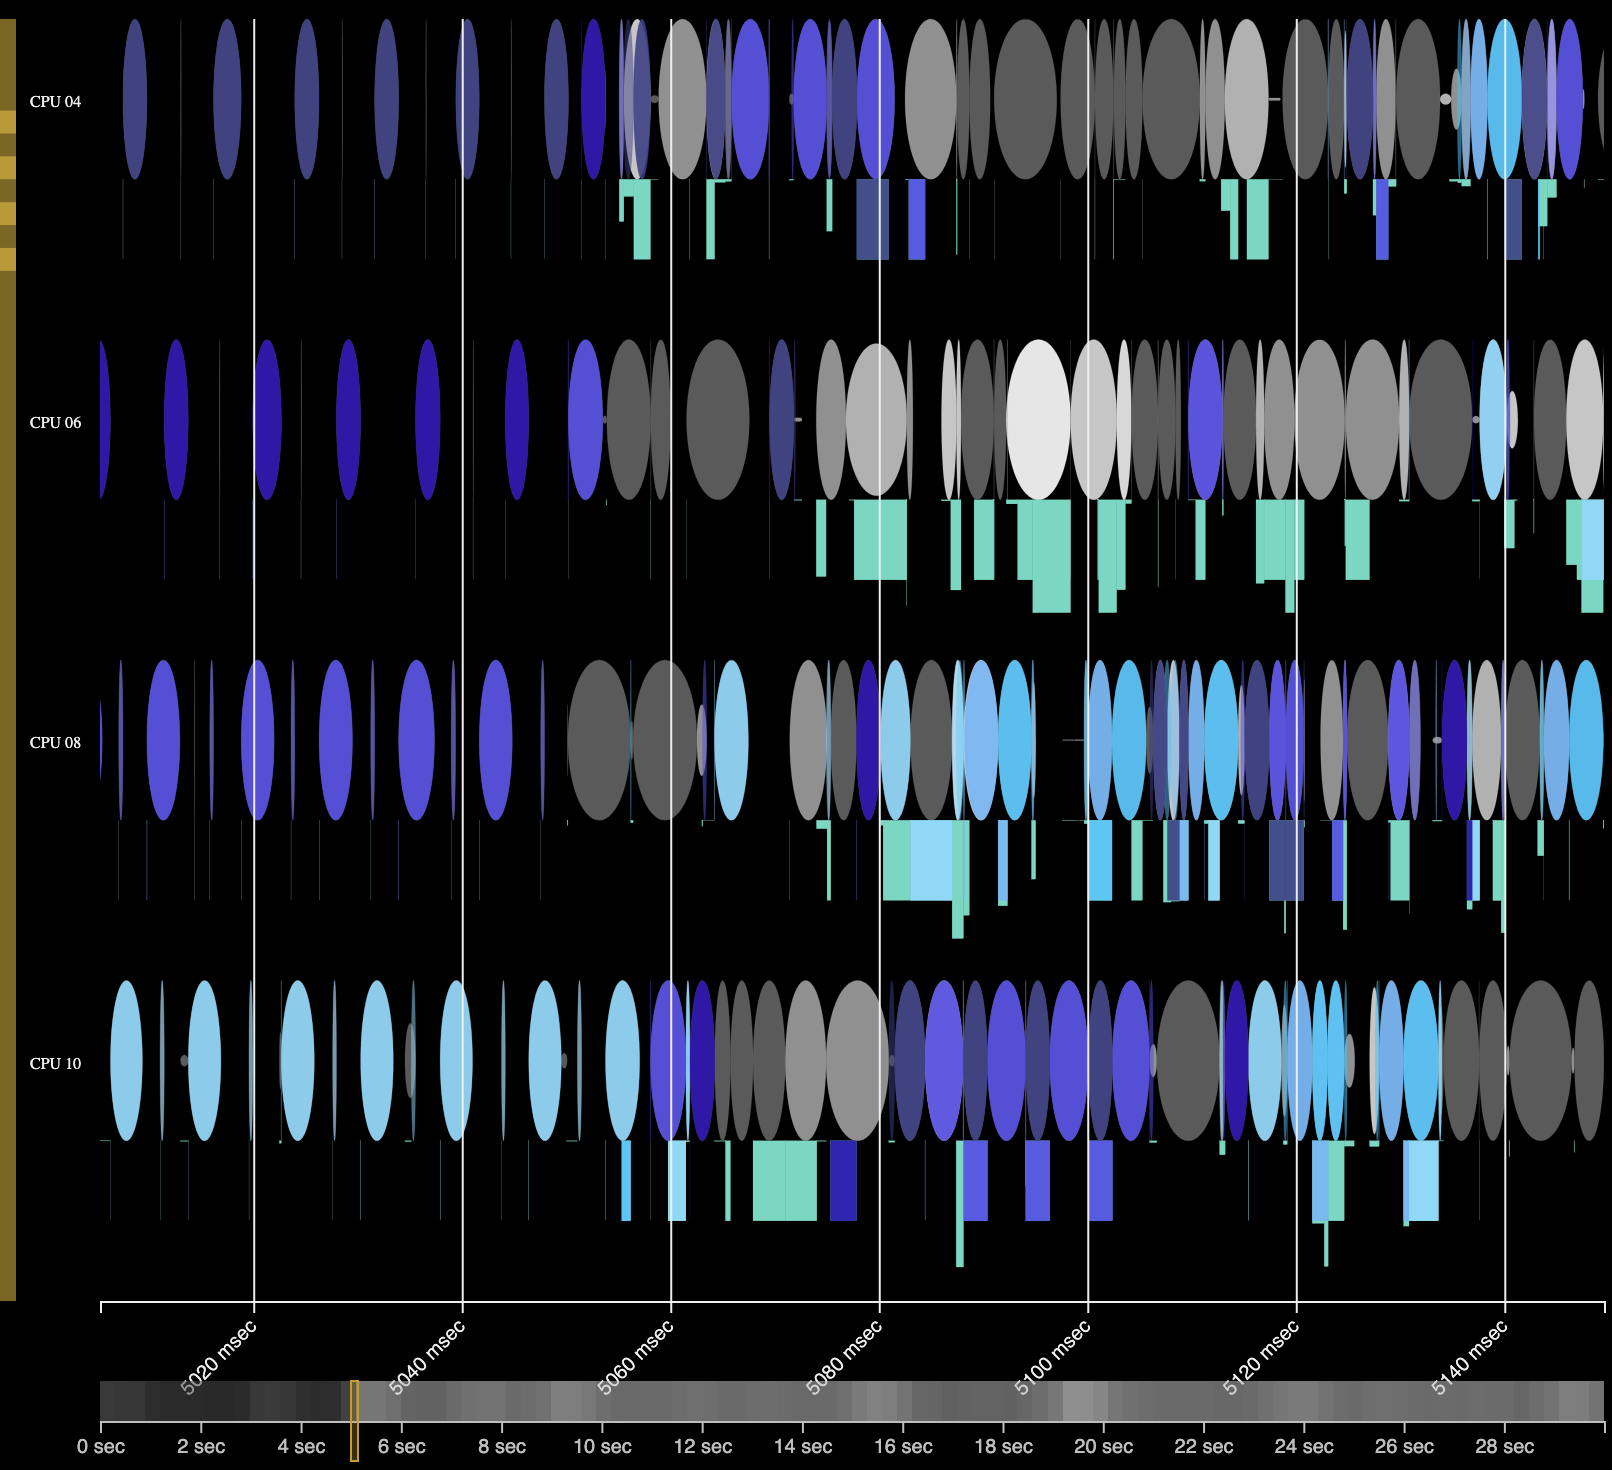
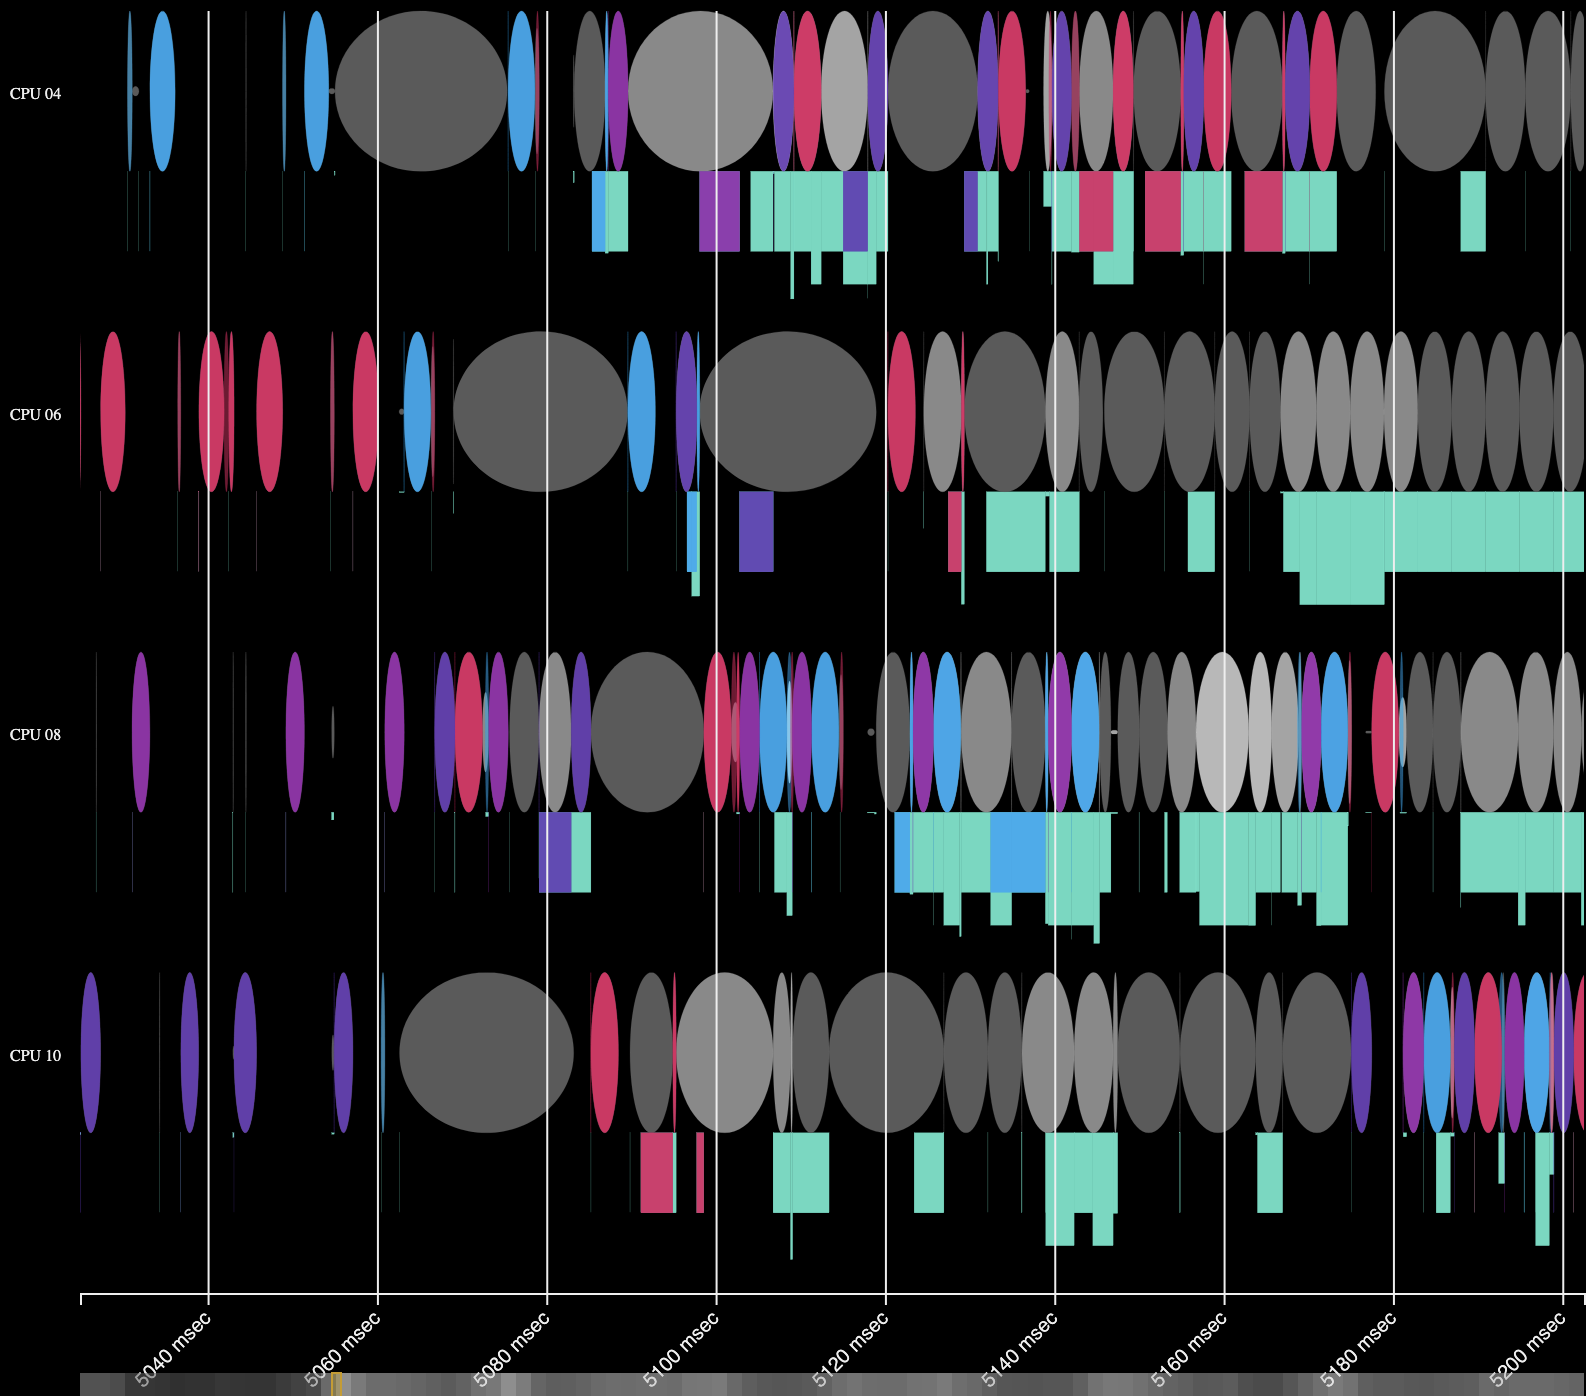
new graphs, changed small amounts of writing, updated the numers

diff --git a/smth26/problem.tex b/smth26/problem.tex
@@ -18,7 +18,7 @@ the same four cores.
 
 A key tenet of the QOS classes is that the lowest class, BestEffort, be
 invisible to higher classes. BestEffort tasks need to be preempted as soon as a
-higher class pod has anything to run. If this is correclty enforced, no amount
+higher class pod has anything to run. If this is correctly enforced, no amount
 of load on a BestEffort pod should be able to affect the performance of a
 Guaranteed or Burstable pod.
 
@@ -33,15 +33,14 @@ Guaranteed or Burstable pod.
 However, we find that running a BestEffort job does in fact impact the
 performance of higher class pods. \autoref{fig:kubernetes-unedited} shows the
 result of running a best effort workload, using the BestEffort class, alongside
-the web server, running as a Burstable pod. The top graph of plots the
-end-to-end latency of an endpoint that gets a users feed and applies a
-moderation; the bottom graph shows the throughput of a best effort image resize
-job. After the image resize job starts running, the mean response latency of the
-web application jumps from $\sim$7ms to $\sim$15ms, and the 99th percentile
-latency from $\sim$10ms to $\sim$25ms. The graph looks the same if the web
-server is running as a Guaranteed pod. This clearly violates the goal that
-Guaranteed and Burstable pods get access to reserved CPUs when they could use
-them.
+the web server, running as a Burstable pod. The top graph plots the end-to-end
+latency of an endpoint that gets a users feed and applies a moderation; the
+bottom graph shows the throughput of a best effort image resize job. After the
+image resize job starts running, the mean response latency of the web
+application jumps from $\sim$7ms to $\sim$15ms, and the 99th percentile latency
+from $\sim$10ms to $\sim$25ms. The graph looks the same if the web server is
+running as a Guaranteed pod. This clearly violates the goal that Guaranteed and
+Burstable pods get access to reserved CPUs when they could use them.
 
 
 \begin{figure}[t]
@@ -116,26 +115,28 @@ same web server, and server2 is a simple CPU-bound server.
 \subsubsection{Burstable pods affect Guaranteed pods}
 
 We run the web server in the Guaranteed class, and server2 in the Burstable
-class. \autoref{fig:kubernetes-lc-burst} shows the impact on the web server's
-latency of starting load on server2: average latency jumps up by $\sim$2ms, and
-99th pctile by > 6ms.
+class. Surprisingly, we see a significant latency impact under high load.
+\autoref{fig:kubernetes-lc-burst} shows the web server's latency and the overall
+utilization, before and after starting load on server2. We see that average
+latency jumps from $\sim$6ms to $\sim$9.5, and the 99th pctile from 7ms to 22.
 
 \begin{figure}[t]
     \centering
     \includegraphics[width=\columnwidth]{graphs/schedviz-lc-burst-problem.png}
     \caption{When server1 is running alone, it has all the cores to itself, but
     after server2 starts it gets only half of whatever core it runs on, even if
-    that is a fraction of the cores available and server2 is running uncontended
-    on the other cores}\label{fig:schedviz-lc-burst-problem}
+    it isn't using all the cores available and server2 is running uncontended on
+    the other cores}\label{fig:schedviz-lc-burst-problem}
 \end{figure}
 
 \autoref{fig:schedviz-lc-burst-problem} shows an outtake from the trace of the
-experiment. On the left hand side of the trace, server1 can run uncontended on
+experiment. Threads of server1 are colored in, threads are serer2 are shown in
+shades of grey. On the very left of the trace, server1 can run uncontended on
 any core when requests come in. Then server2 starts, and has a high load and
 thus immediately starts running on all four cores, because it is Burstable. When
 a request from server1 comes in, the thread processing that request has to share
-the core equally with threads from server2, even while server2 gets other cores
-all to itself.
+the core equally with threads from server2, or other server1 threads, while
+while server2 gets other cores all to itself.
 
 This means that Burstable pods have a performance impact on Guaranteed ones
 because both share cores where they both have threads as equals, irrespective of
@@ -165,7 +166,7 @@ on many more cores than the other.
 However, we find that even a Guaranteed pod can impact anothers performance. We
 run the same two servers, both now in the Guaranteed class.
 \autoref{fig:kubernetes-lc-guar} shows the result: average latency jumps up by
-$\sim$3ms, and 99th pctile by > 10ms.
+$\sim$4ms, and 99th pctile by $\sim$ 20ms.
 
 The reason this problem happens is related to how Kubernetes uses \cgroups{} to
 enforce limits on pods. Kubernetes uses cpu.max to do so, but the interface to
@@ -192,9 +193,10 @@ four cores, Kubernetes relies on weights to separate the two, which can lead to
 significant delays for other services, as we saw.
 \autoref{fig:schedviz-lc-guar-problem} shows this happening in a trace from the
 experiment from \autoref{fig:kubernetes-lc-guar}. We can see the phases of
-server2 threads in grey, which run for a while on all four cores, disrupting the
-blue server1 threads, before being throttled, during which time server1 threads
-can run uninterrupted and otherwise the cores lie idle.
+server2 threads, which are shown in grey: they run for a while on all four
+cores, disrupting the colorful server1 threads, before being throttled, during
+which time server1 threads can run uninterrupted and otherwise the cores lie
+idle.
 
 \hmng{I should add a note somewhere that lots of people caution against using
 limits for exactly this reason, and cite the reddit articles/presentations I
